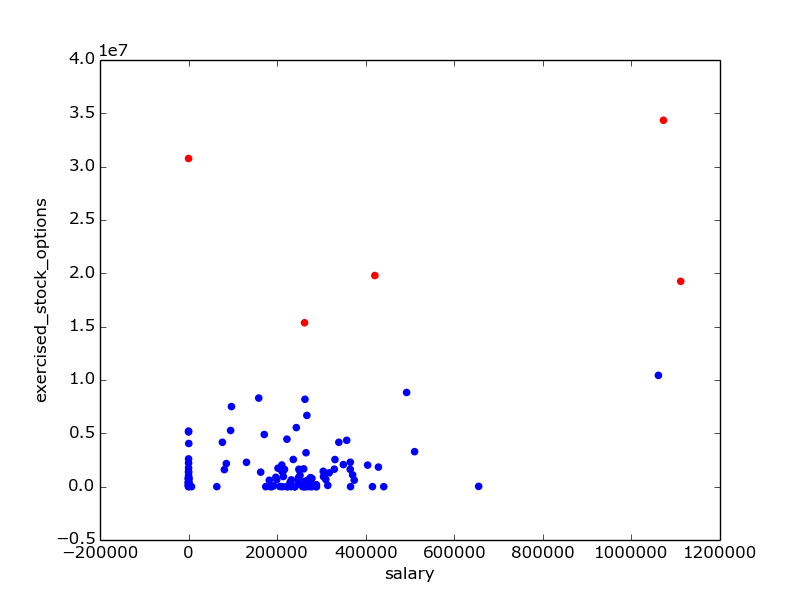
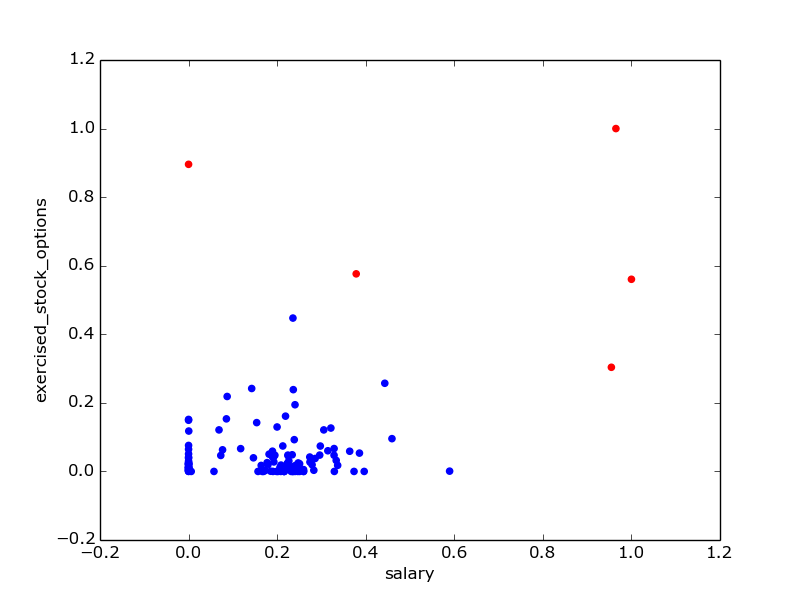
Applied minmax feature scaling to k_means

diff --git a/k_means/k_means_cluster.py b/k_means/k_means_cluster.py
@@ -34,6 +34,11 @@ for f1, f2 in finance_features:
     plt.scatter(f1, f2)
 plt.show()
 
+from sklearn.preprocessing import MinMaxScaler
+scaler = MinMaxScaler()
+finance_features = scaler.fit_transform(finance_features)
+print "salary 200000.0 and bonus 1000000.0 scaled:",scaler.transform([[200000.0, 1000000.0]])
+
 from sklearn.cluster import KMeans
 kmeans = KMeans(n_clusters=2, random_state=0)
 pred = kmeans.fit_predict(finance_features)

diff --git a/k_means/README.md b/k_means/README.md
@@ -1,3 +1,3 @@
-K-Means with two clusters. Red and blue dots belong to different clusters.
+K-Means with two clusters and feature scaling. Red and blue dots belong to different clusters.
 
 ![Output](clusters.png?raw=true "Output image")
